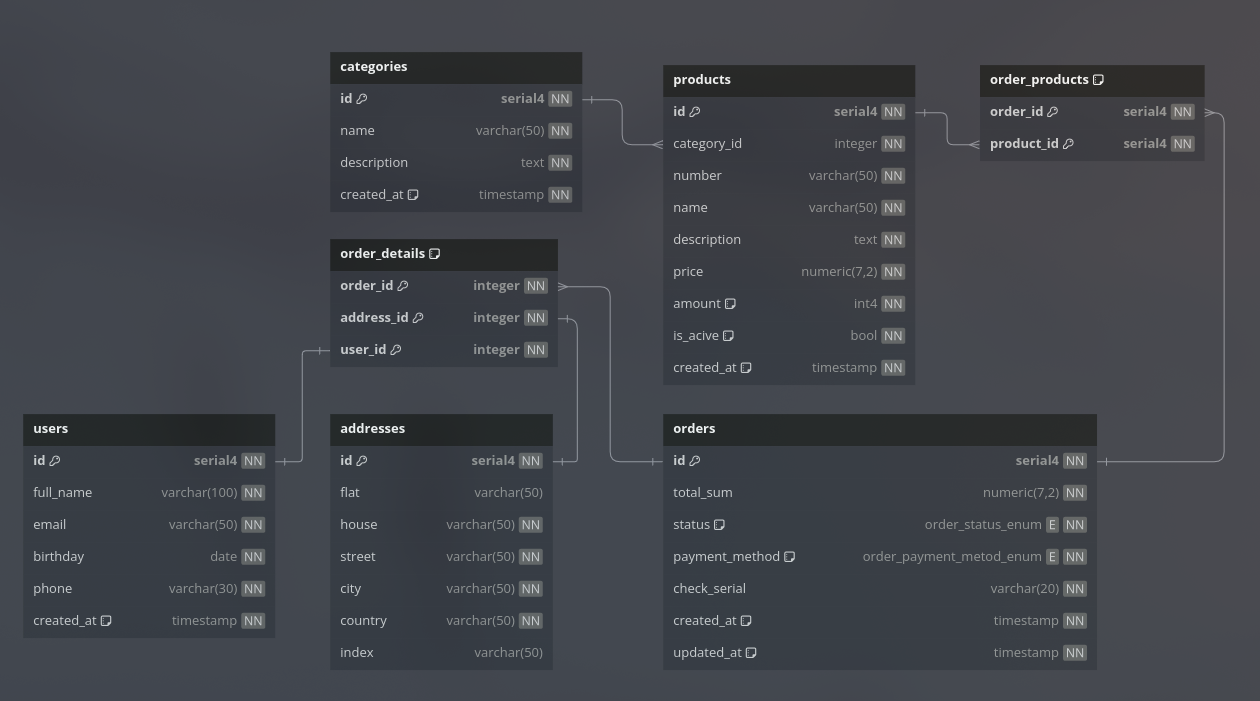
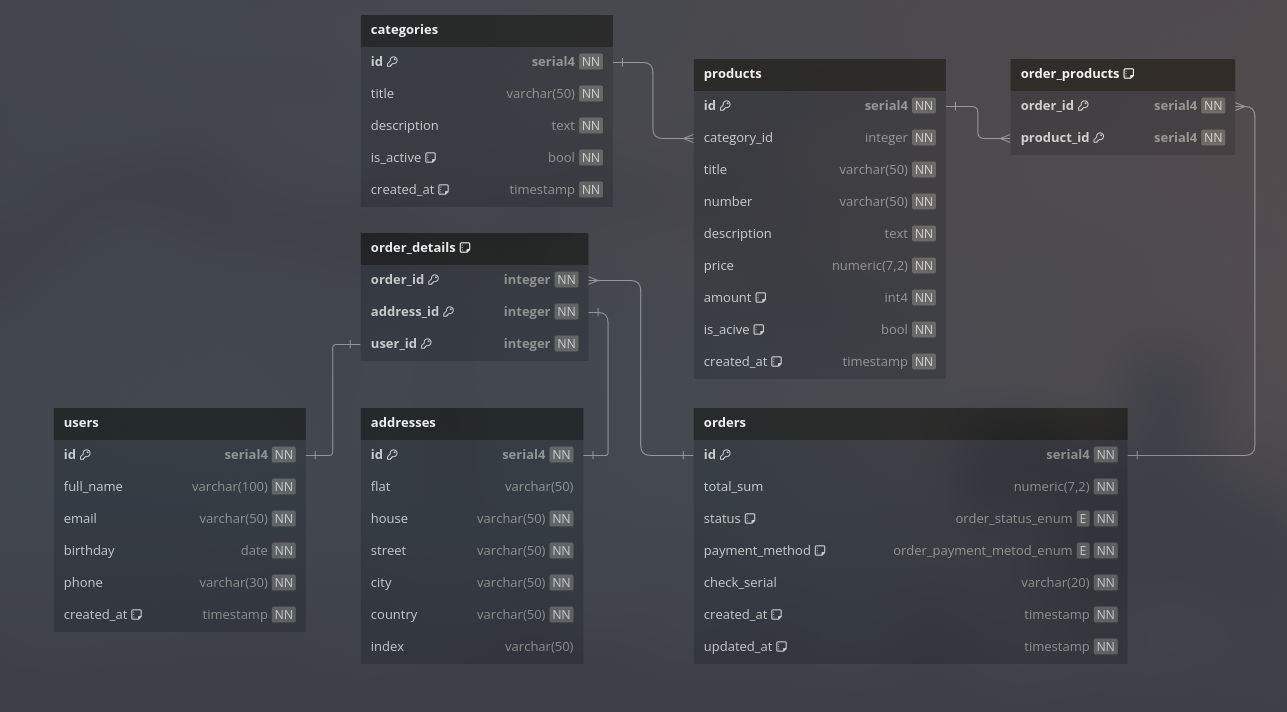
update docs/er-diagram

diff --git a/docs/er-diagram/er-diagram.md b/docs/er-diagram/er-diagram.md
@@ -23,8 +23,9 @@ Enum order_payment_metod_enum {
 
 Table "public"."categories" {
   "id" serial4 [pk, not null, ref: < public.products.category_id]
-  "name" varchar(50) [not null]
+  "title" varchar(50) [not null]
   "description" text [not null]
+  "is_active" bool [not null, default: False]
   "created_at" timestamp [not null, default: 'CURRENT_TIMESTAMP'] 
 
 }
@@ -48,8 +49,8 @@ Table "public"."order_details" {
 Table "public"."products" {
   "id" serial4 [pk, not null, ref: < public.order_products.product_id]
   "category_id" integer [not null]
+  "title" varchar(50) [not null]
   "number" varchar(50) [not null]
-  "name" varchar(50) [not null]
   "description" text [not null]
   "price" numeric(7,2) [not null]
   "amount" int4 [not null, default: 0]
